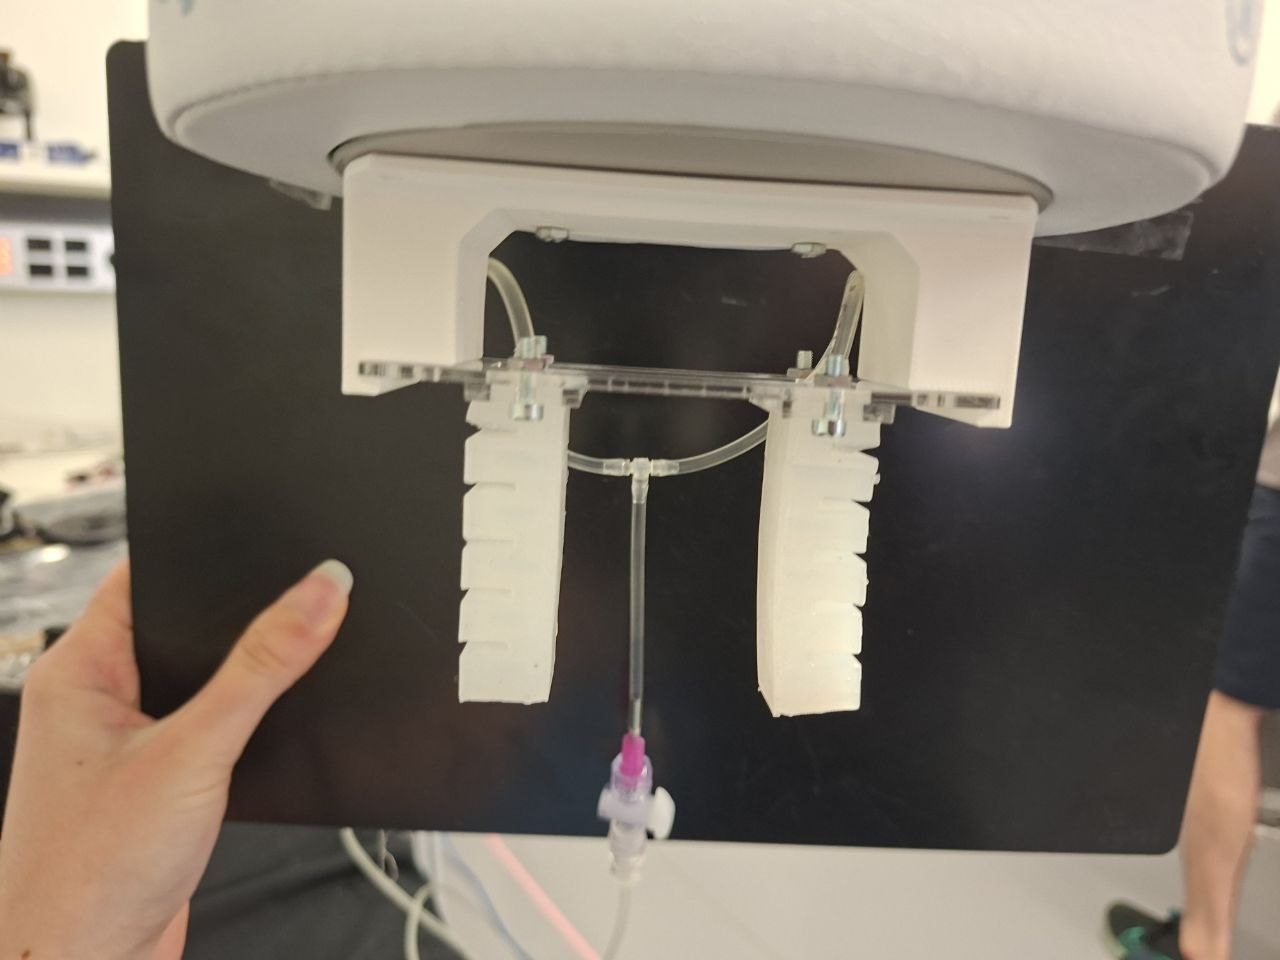
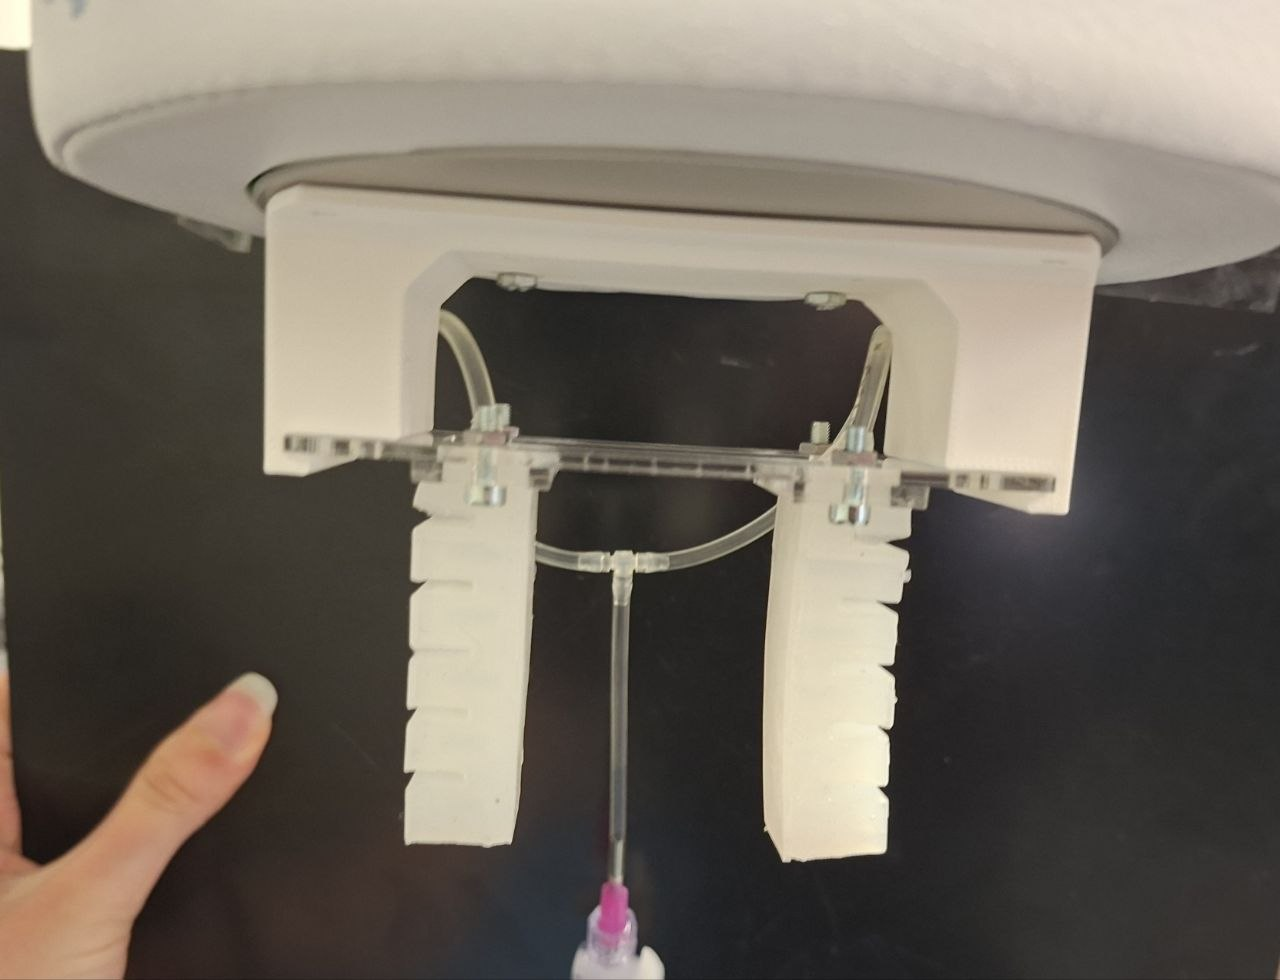
placed video at the right position

diff --git a/README.md b/README.md
@@ -1,11 +1,3 @@
-
-
-https://github.com/user-attachments/assets/7390a7a7-a0ae-449d-9c6a-b7f72b6546bb
-
-
-
-https://github.com/user-attachments/assets/9684972a-f383-46b9-a667-21c126b8bcd5
-
 # CAD Gripper — Hardware Repository
 
 ## Intro
@@ -92,7 +84,7 @@ The electronics are an improved version of the system used in the lab. The key c
 
 > Refer to the assembly video below — note that not all components are rendered.
 
-https://github.com/user-attachments/assets/02c76b58-69f7-4b2a-94d6-dc3e0fdb5a20
+https://github.com/user-attachments/assets/7390a7a7-a0ae-449d-9c6a-b7f72b6546bb
 
 ---
 